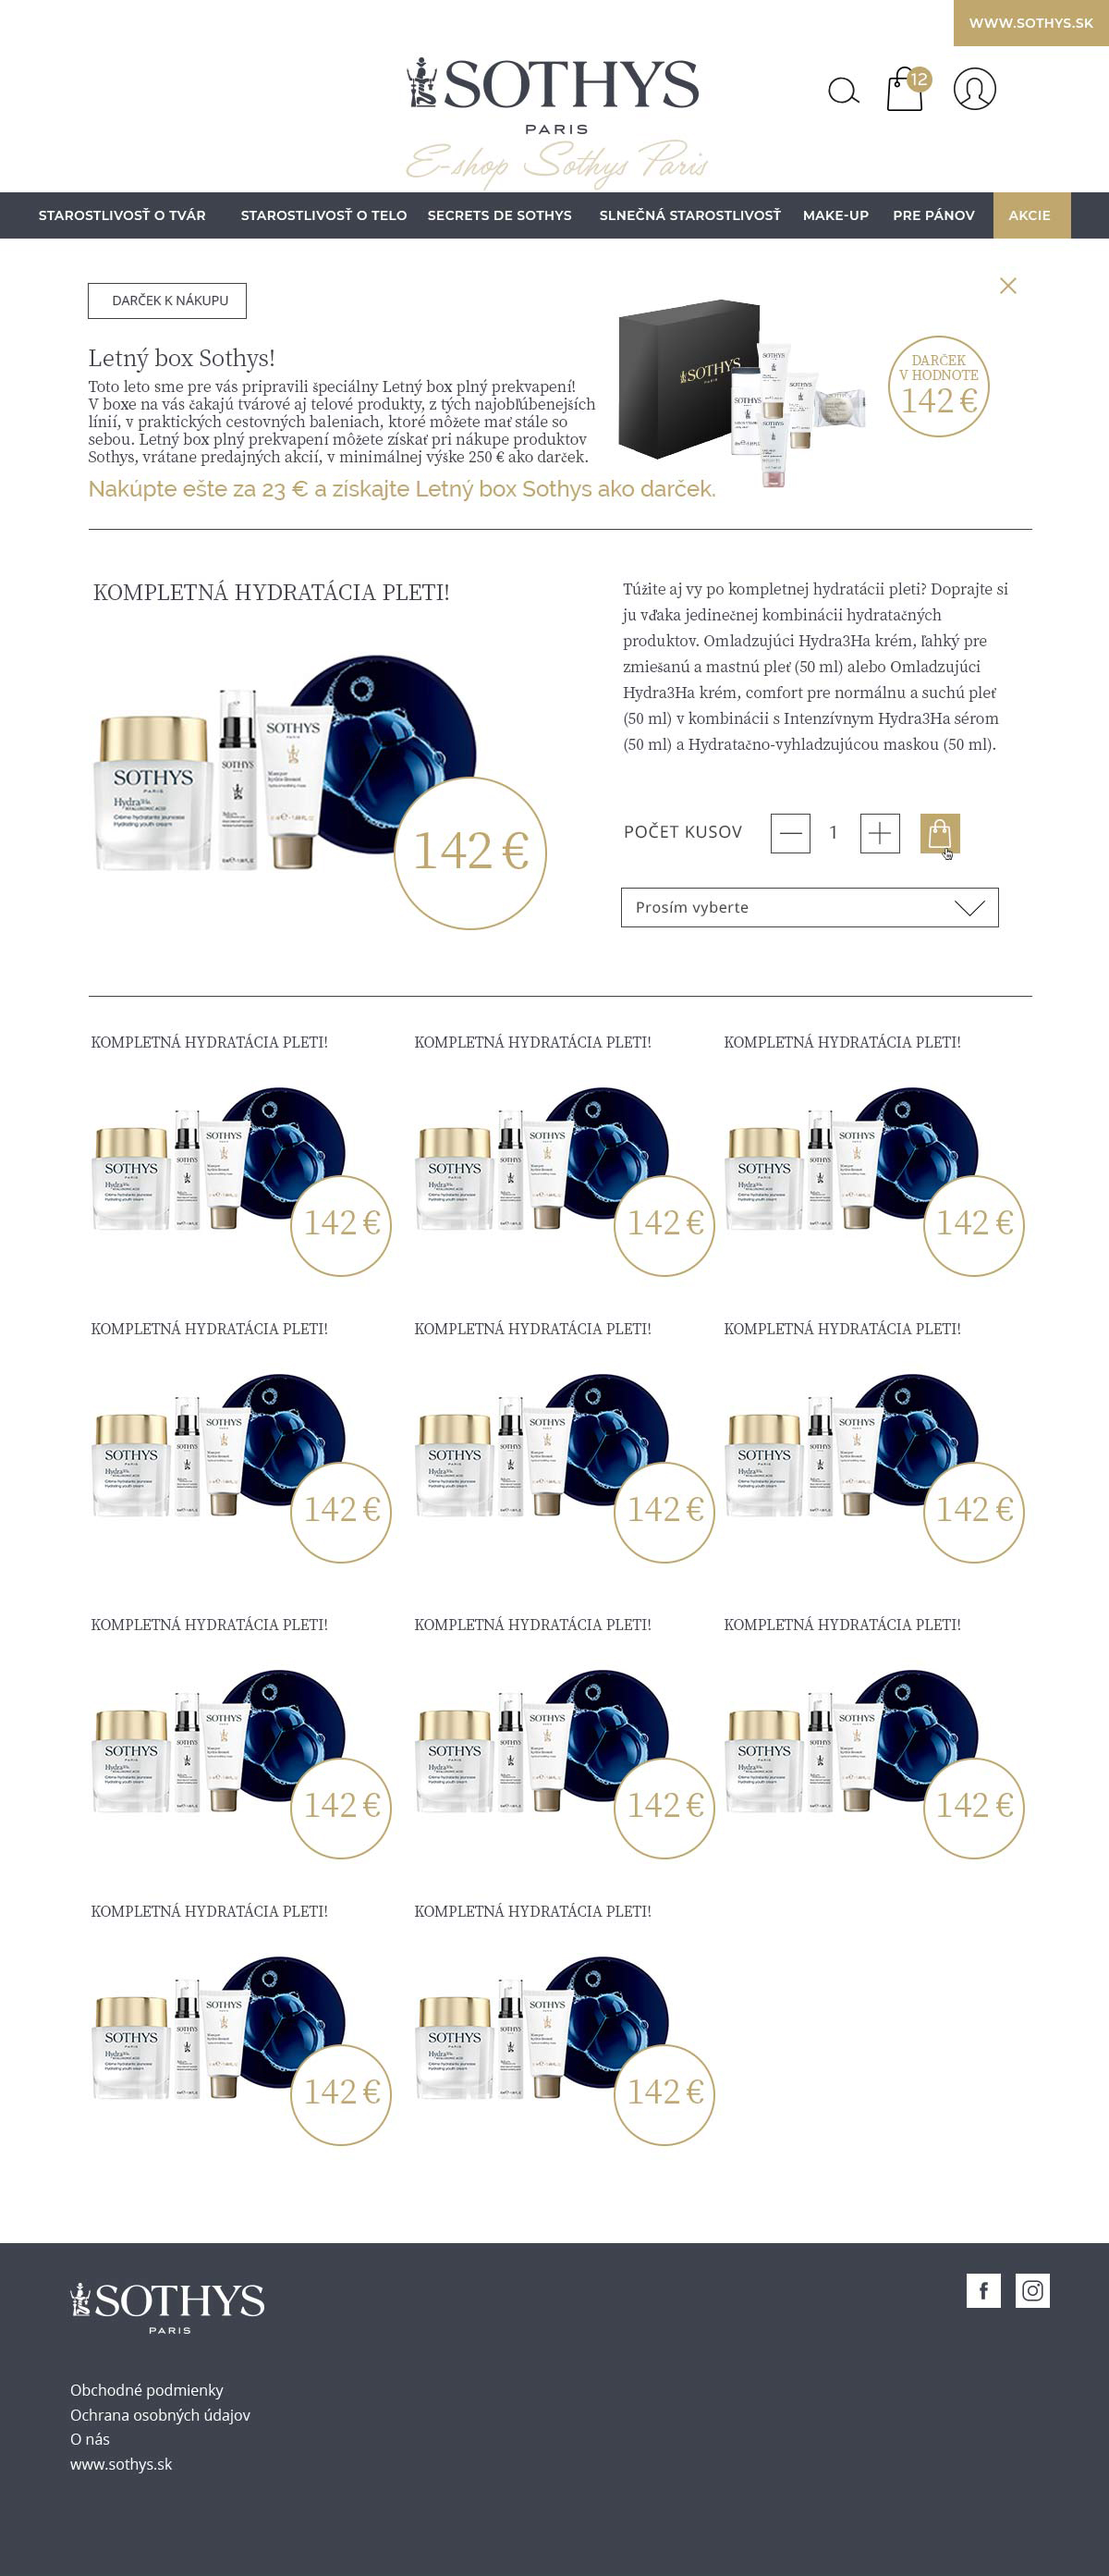
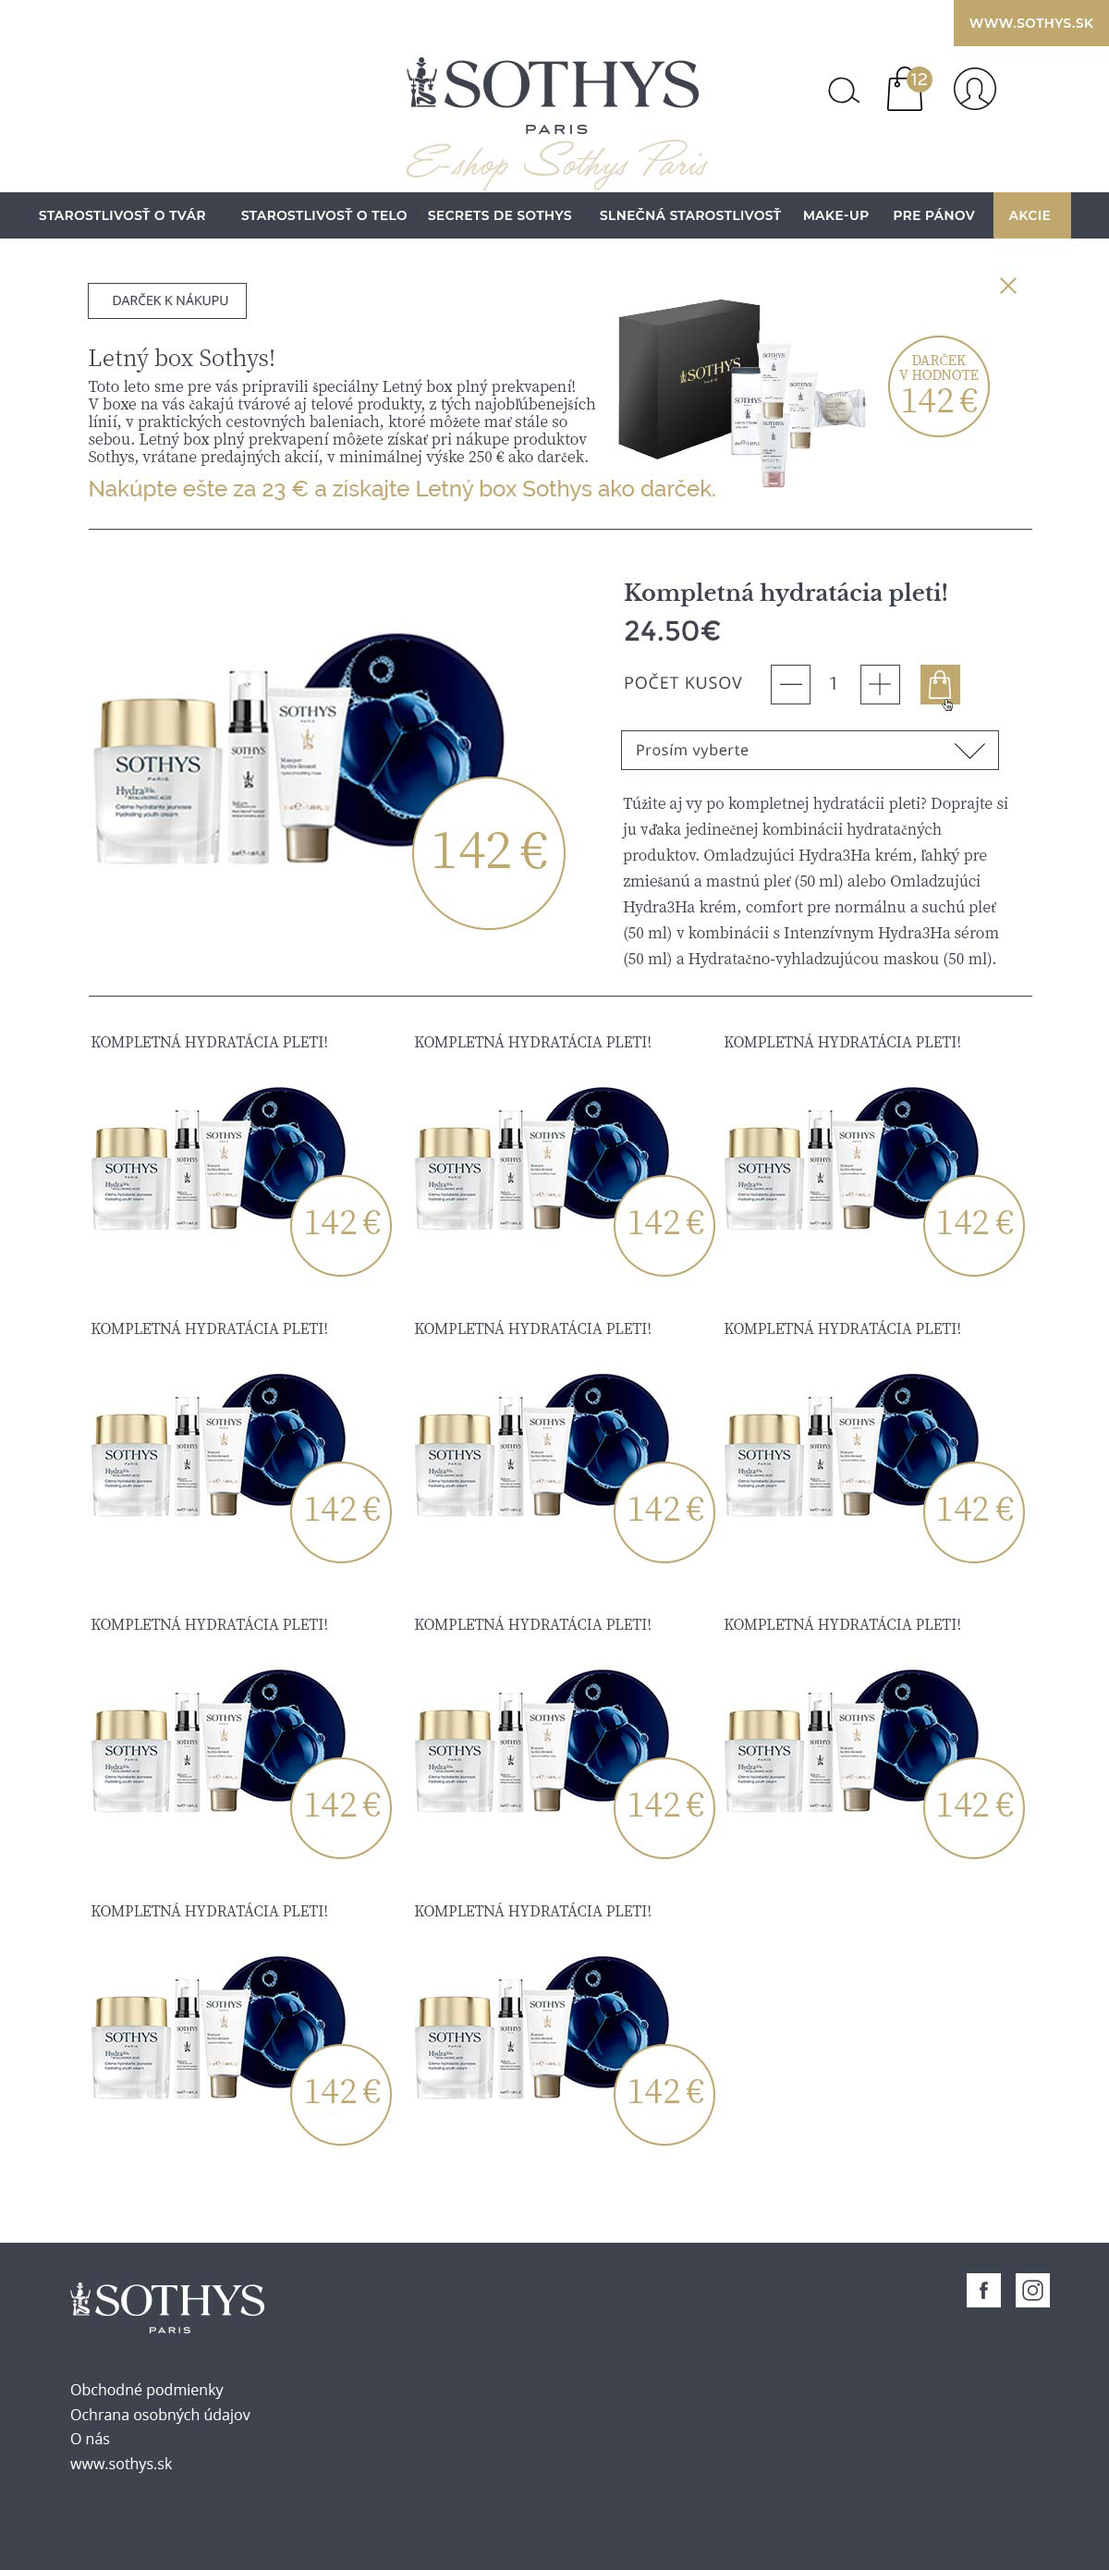
Sum

diff --git a/docs/sothys/e-shop/07.html b/docs/sothys/e-shop/07.html
@@ -16,6 +16,6 @@ body {
 }
 </style>
 <body> 
-<div align="center"> <a href="index.html"><img src="07.jpg" width="1200" height="2521" border="0"></a></div>
+<div align="center"> <a href="index.html"><img src="07.jpg" width="1200" height="2637" border="0"></a></div>
 </body>
 </html>

diff --git a/docs/sothys/e-shop/06.html b/docs/sothys/e-shop/06.html
@@ -16,6 +16,6 @@ body {
 }
 </style>
 <body> 
-<div align="center"> <a href="07.html"><img src="06.jpg" width="1200" height="2786" border="0"></a></div>
+<div align="center"> <a href="07.html"><img src="06.jpg" width="1200" height="2780" border="0"></a></div>
 </body>
 </html>
